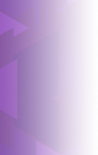
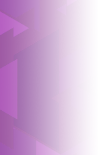
change probation color and de-squish eval card footer

Changed region(s): [[0.0, 0.3871, 0.1531, 0.7484], [0.0, 0.0, 0.1837, 0.2323], [0.0, 0.929, 0.0306, 1.0]]

diff --git a/src/components/evaluations/card/CardHeader.vue b/src/components/evaluations/card/CardHeader.vue
@@ -4,6 +4,10 @@
             <a :href="'https://osu.ppy.sh/users/' + osuId" target="_blank">
                 <b>{{ username }}</b>
             </a>
+            <i v-if="mode == 'osu'" class="far fa-circle mx-1" />
+            <i v-else-if="mode == 'taiko'" class="fas fa-drum mx-1" />
+            <i v-else-if="mode == 'catch'" class="fas fa-apple-alt mx-1" />
+            <i v-else-if="mode == 'mania'" class="fas fa-stream mx-1" />
         </p>
         <div v-if="consensus">
             Consensus:
@@ -19,6 +23,10 @@ export default {
     name: 'CardHeader',
     props: {
         username: {
+            type: String,
+            required: true,
+        },
+        mode: {
             type: String,
             required: true,
         },

diff --git a/src/components/evaluations/card/CardFooter.vue b/src/components/evaluations/card/CardFooter.vue
@@ -1,10 +1,5 @@
 <template>
     <div class="card-footer d-flex justify-content-start align-items-center">
-        <i v-if="mode == 'osu'" class="far fa-circle mx-1" />
-        <i v-else-if="mode == 'taiko'" class="fas fa-drum mx-1" />
-        <i v-else-if="mode == 'catch'" class="fas fa-apple-alt mx-1" />
-        <i v-else-if="mode == 'mania'" class="fas fa-stream mx-1" />
-
         <span
             v-if="isNat && !isDiscuss"
             class="badge badge-info mx-1"
@@ -60,10 +55,6 @@ export default {
         AddVotes,
     },
     props: {
-        mode: {
-            type: String,
-            required: true,
-        },
         nominatorAssessmentMongoId: {
             type: String,
             required: true,

diff --git a/src/components/evaluations/currentBnEvaluations/EvaluationCard.vue b/src/components/evaluations/currentBnEvaluations/EvaluationCard.vue
@@ -11,11 +11,11 @@
         >
             <card-header
                 :username="evaluationRound.bn.username"
+                :mode="evaluationRound.mode"
                 :osu-id="evaluationRound.bn.osuId"
                 :consensus="evaluationRound.consensus"
             />
             <card-footer
-                :mode="evaluationRound.mode"
                 :nominator-assessment-mongo-id="evaluationRound.id"
                 :evaluations="evaluationRound.evaluations"
                 :is-discuss="isDiscuss"

diff --git a/src/components/evaluations/applications/ApplicationCard.vue b/src/components/evaluations/applications/ApplicationCard.vue
@@ -11,11 +11,11 @@
         >
             <card-header
                 :username="application.applicant.username"
+                :mode="application.mode"
                 :osu-id="application.applicant.osuId"
                 :consensus="application.consensus"
             />
             <card-footer
-                :mode="application.mode"
                 :nominator-assessment-mongo-id="application.id"
                 :evaluations="application.evaluations"
                 :date="application.createdAt"

diff --git a/src/sass/_variables.scss b/src/sass/_variables.scss
@@ -38,8 +38,8 @@ $dark:          $gray-800;
 
 $theme-colors: (
   "nat": #bc584d,
-  "bn": #5e1ec4 ,
-  "probation": #a03da1,
+  "bn": #6d44af ,
+  "probation": #c78bc9c5,
   "pass": $success,
   "neutral": $gray-500,
   "fail": $danger,
